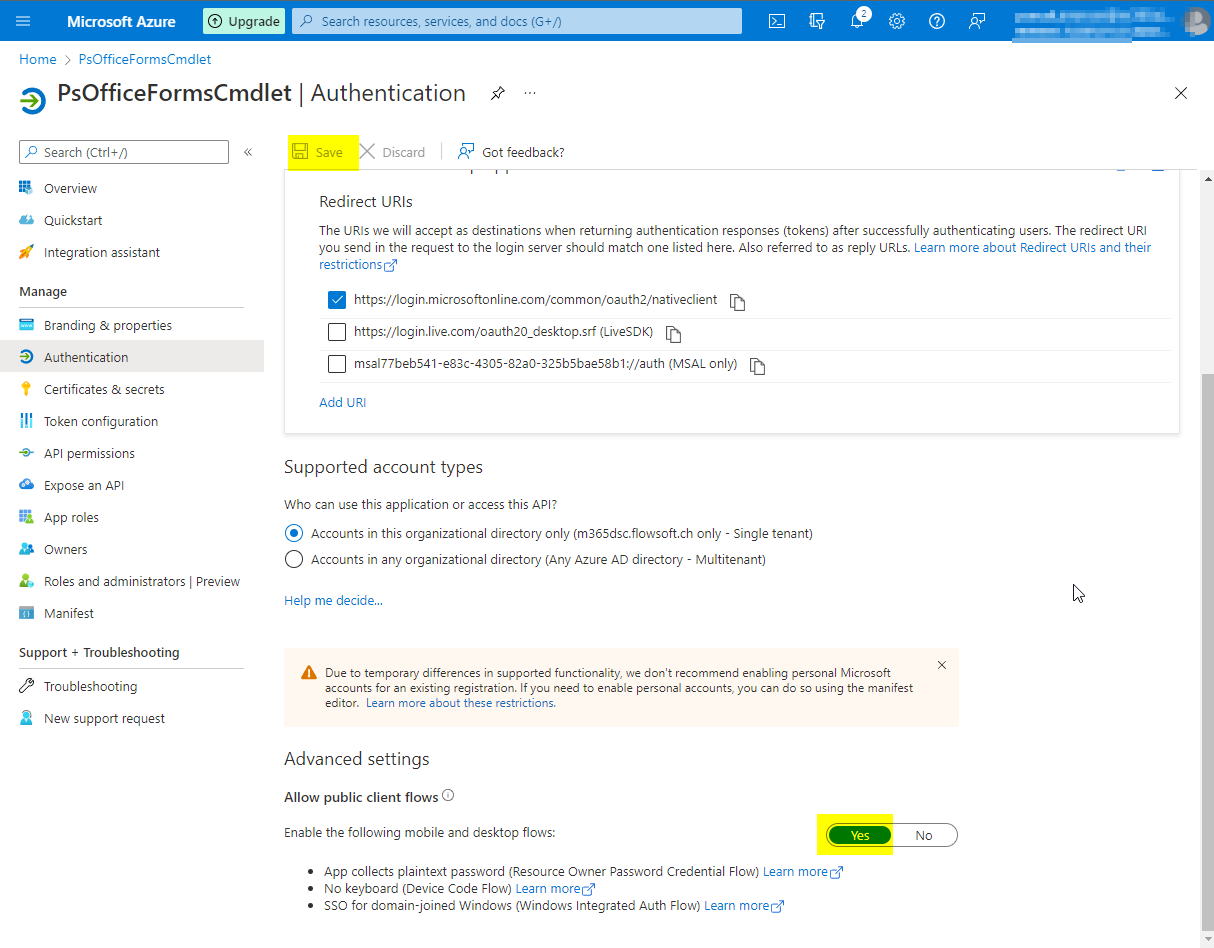
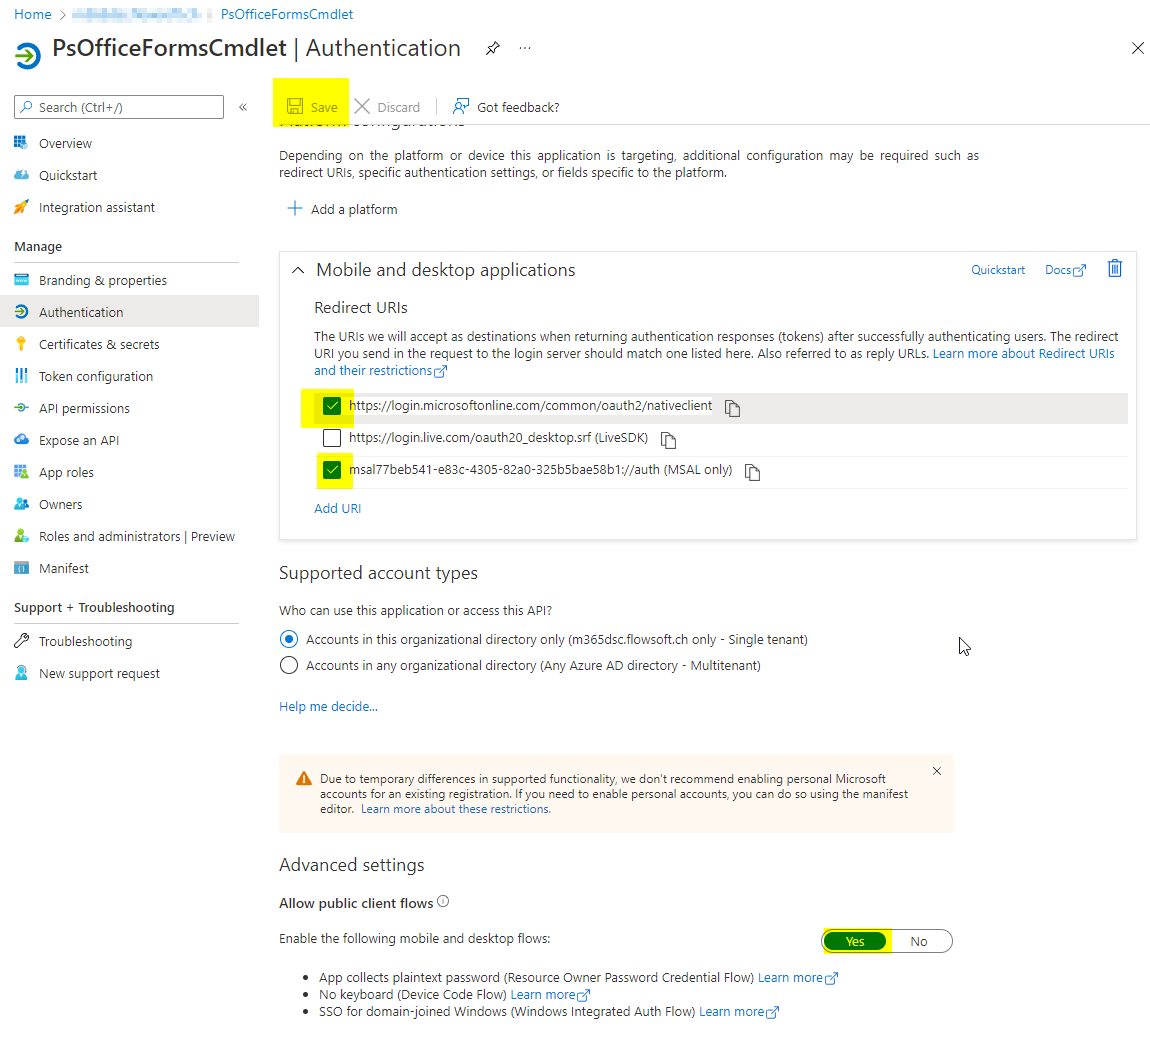
add interactive mode for sign in

Changed region(s): [[0.0, 0.0, 1.0, 0.7648], [0.2435, 0.673, 0.8217, 0.9789], [0.9739, 0.3977, 1.0, 0.9789]]

diff --git a/src/FormsPowerShellModule/FormsPowerShellModule.Test/FormsServiceTestInteractive.cs b/src/FormsPowerShellModule/FormsPowerShellModule.Test/FormsServiceTestInteractive.cs
@@ -6,17 +6,15 @@ using FormsPowerShellModule.Models;
 namespace FormsPowerShellModule.Test
 {
     [TestClass]
-    public class FormsServiceTest
+    public class FormsServiceTestInteractive
     {
         private string _tenantId;
         private string _clientId;
-        private string _userName;
-        private string _password;
         private string _demoUserId;
         private string _formId;
 
-        private static FormsService _formsService;
-        
+        private FormsService _formsService;
+
         public TestContext TestContext { get; set; }
 
         [TestInitialize]
@@ -24,15 +22,13 @@ namespace FormsPowerShellModule.Test
         {
             _tenantId = TestContext.Properties["tenantId"] as string;
             _clientId = TestContext.Properties["clientId"] as string;
-            _userName = TestContext.Properties["userName"] as string;
-            _password = TestContext.Properties["password"] as string;
             _demoUserId = TestContext.Properties["demoUserId"] as string;
             _formId = TestContext.Properties["formId"] as string;
-            _formsService = new FormsService(_tenantId, _clientId, _userName, _password.ToSecureString());
+            _formsService = new FormsService(_tenantId, _clientId);
         }
         
         [TestMethod]
-        public void TestConnect()
+        public void TestConnectInteractive()
         {   
             try
             {
@@ -46,7 +42,7 @@ namespace FormsPowerShellModule.Test
 
 
         [TestMethod]
-        public void TestGetForms()
+        public void TestGetFormsInteractive()
         {
             _formsService.Connect();
             Forms[] forms = FormsService.Instance.GetForms(_demoUserId);
@@ -60,7 +56,7 @@ namespace FormsPowerShellModule.Test
         }
 
         [TestMethod]
-        public void TestDownload()
+        public void TestDownloadInteractive()
         {
             _formsService.Connect();
             FormsService.Instance.DownloadDownloadExcelFile(_formId, $"{_formId}.xlsx");
@@ -68,7 +64,7 @@ namespace FormsPowerShellModule.Test
 
 
         [TestMethod]
-        public void TestGeAllForms()
+        public void TestGeAllFormsInteractive()
         {
             _formsService.Connect();
             Forms[] forms = FormsService.Instance.GetForms();
@@ -82,7 +78,7 @@ namespace FormsPowerShellModule.Test
         }
 
         [TestMethod]
-        public void TestGeAllFormsFromDeletedUsers()
+        public void TestGeAllFormsFromDeletedUsersInteractive()
         {
             _formsService.Connect();
             Forms[] forms = FormsService.Instance.GetFormsFromDeletedUsers(new string[]{"Id", "Title", "CreatedBy", "OwnerId" }.ToList());
@@ -98,9 +94,9 @@ namespace FormsPowerShellModule.Test
         }
 
         [TestMethod]
-        public void TestGetUsers()
+        public void TestGetUsersInteractive()
         {
-            UserService userService = new UserService(_tenantId, _clientId, _userName, _password.ToSecureString());
+            UserService userService = new UserService(_tenantId, _clientId);
             userService.Connect();
             User[] users = userService.GetUsers(2);
             Assert.IsNotNull(users);
@@ -108,9 +104,9 @@ namespace FormsPowerShellModule.Test
         }
 
         [TestMethod]
-        public void TestGetDeletedUsers()
+        public void TestGetDeletedUsersInteractive()
         {
-            UserService userService = new UserService(_tenantId, _clientId, _userName, _password.ToSecureString());
+            UserService userService = new UserService(_tenantId, _clientId);
             userService.Connect();
             User[] users = userService.GetDeletedUsers(2);
             Assert.IsNotNull(users);
@@ -118,7 +114,7 @@ namespace FormsPowerShellModule.Test
         }
 
         [TestMethod]
-        public void TestGetFormsWithFields()
+        public void TestGetFormsWithFieldsInteractive()
         {
             _formsService.Connect();
             Forms[] forms = _formsService.GetForms(_demoUserId, new[] { "id" }.ToList());
@@ -132,7 +128,7 @@ namespace FormsPowerShellModule.Test
         }
 
         [TestMethod]
-        public void TestGetFormsWithFieldsUpperCase()
+        public void TestGetFormsWithFieldsUpperCaseInteractive()
         {
             _formsService.Connect();
             Forms[] forms = _formsService.GetForms(_demoUserId, new []{"Id", "Title"}.ToList());

diff --git a/src/FormsPowerShellModule/FormsPowerShellModule/src/Service.cs b/src/FormsPowerShellModule/FormsPowerShellModule/src/Service.cs
@@ -14,41 +14,59 @@ namespace FormsPowerShellModule
     public class Service
     {
         private readonly string[] _scopes;
-        private IPublicClientApplication _app;
+        private static IPublicClientApplication _app;
         private readonly string _userName;
         private readonly SecureString _password;
         protected AuthenticationResult Result;
         protected readonly string TenantId;
         private readonly string _clientId;
 
-        public Service(string tenantId, string clientId, string userName, SecureString password, string[] scopes)
+        public Service(string tenantId, string clientId, string[] scopes, string userName = null, SecureString password = null)
         {
             TenantId = tenantId;
             _userName = userName;
             _password = password;
             _scopes = scopes;
             _clientId = clientId;
+            if (_app == null)
+            {
+                _app = PublicClientApplicationBuilder.Create(_clientId)
+                    .WithAuthority($"https://login.microsoftonline.com/{TenantId}/oauth2/v2.0/token")
+                    .WithDefaultRedirectUri()
+                    .Build();
+            }
         }
 
 
 
         public virtual void Connect()
-        {
-            _app = PublicClientApplicationBuilder.Create(_clientId)
-                .WithAuthority($"https://login.microsoftonline.com/{TenantId}/oauth2/v2.0/token")
-                .Build();
+        {   
             AcquireToken().GetAwaiter().GetResult();
         }
 
 
         protected async Task AcquireToken()
         {
-            Result = await _app.AcquireTokenByUsernamePassword(_scopes,
-                    _userName, _password)
-                .ExecuteAsync();
+            if (string.IsNullOrEmpty(_userName) || _password == null)
+            {
+                var accounts = await _app.GetAccountsAsync();
+
+                try
+                {
+                    Result = await _app.AcquireTokenSilent(_scopes, accounts.FirstOrDefault()).ExecuteAsync();
+                }
+                catch (MsalUiRequiredException ex)
+                {
+
+                    Result = await _app.AcquireTokenInteractive(_scopes).ExecuteAsync();
+                }
+            }
+            else
+            {
+                Result = await _app.AcquireTokenByUsernamePassword(_scopes,
+                        _userName, _password)
+                    .ExecuteAsync();
+            }
         }
-
-        
-
     }
 }

diff --git a/src/FormsPowerShellModule/FormsPowerShellModule/src/FormsService.cs b/src/FormsPowerShellModule/FormsPowerShellModule/src/FormsService.cs
@@ -15,8 +15,8 @@ namespace FormsPowerShellModule
 {
     public class FormsService : Service
     {
-        private UserService _userService;
-        public FormsService(string tenantId, string clientId, string userName, SecureString password) : base(tenantId, clientId, userName, password, new[] {"api://forms.office.com/c9a559d2-7aab-4f13-a6ed-e7e9c52aec87/Forms.Read"})
+        private readonly UserService _userService;
+        public FormsService(string tenantId, string clientId, string userName = null, SecureString password = null) : base(tenantId, clientId, new[] { "api://forms.office.com/c9a559d2-7aab-4f13-a6ed-e7e9c52aec87/Forms.Read" }, userName, password)
         {
             _userService = new UserService(tenantId, clientId, userName, password);
         }

diff --git a/src/FormsPowerShellModule/FormsPowerShellModule/src/UserService.cs b/src/FormsPowerShellModule/FormsPowerShellModule/src/UserService.cs
@@ -14,7 +14,7 @@ namespace FormsPowerShellModule
     public class UserService : Service
     {
 
-        public UserService(string tenantId, string clientId, string userName, SecureString password) : base(tenantId, clientId, userName, password, new[] { "https://graph.microsoft.com/User.Read.All" })
+        public UserService(string tenantId, string clientId, string userName = null, SecureString password = null) : base(tenantId, clientId, new[] { "https://graph.microsoft.com/User.Read.All" }, userName, password)
         {
         }
 
